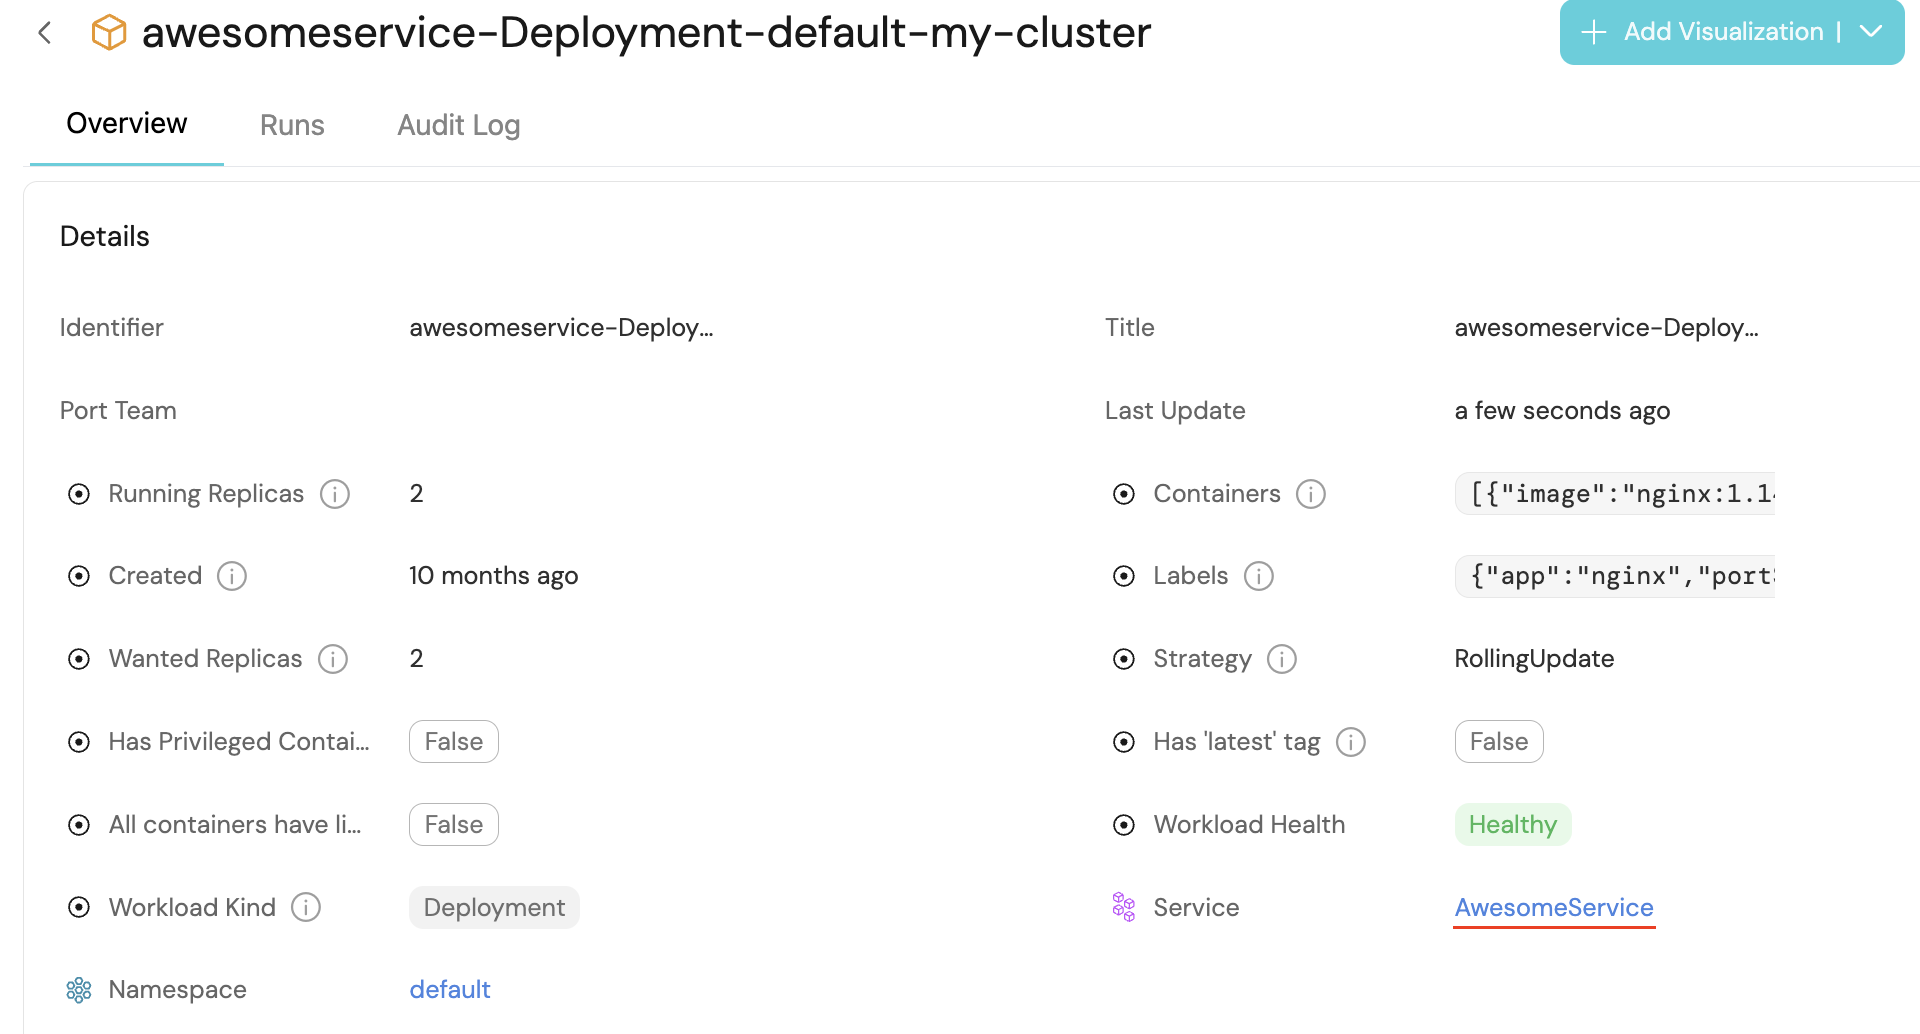
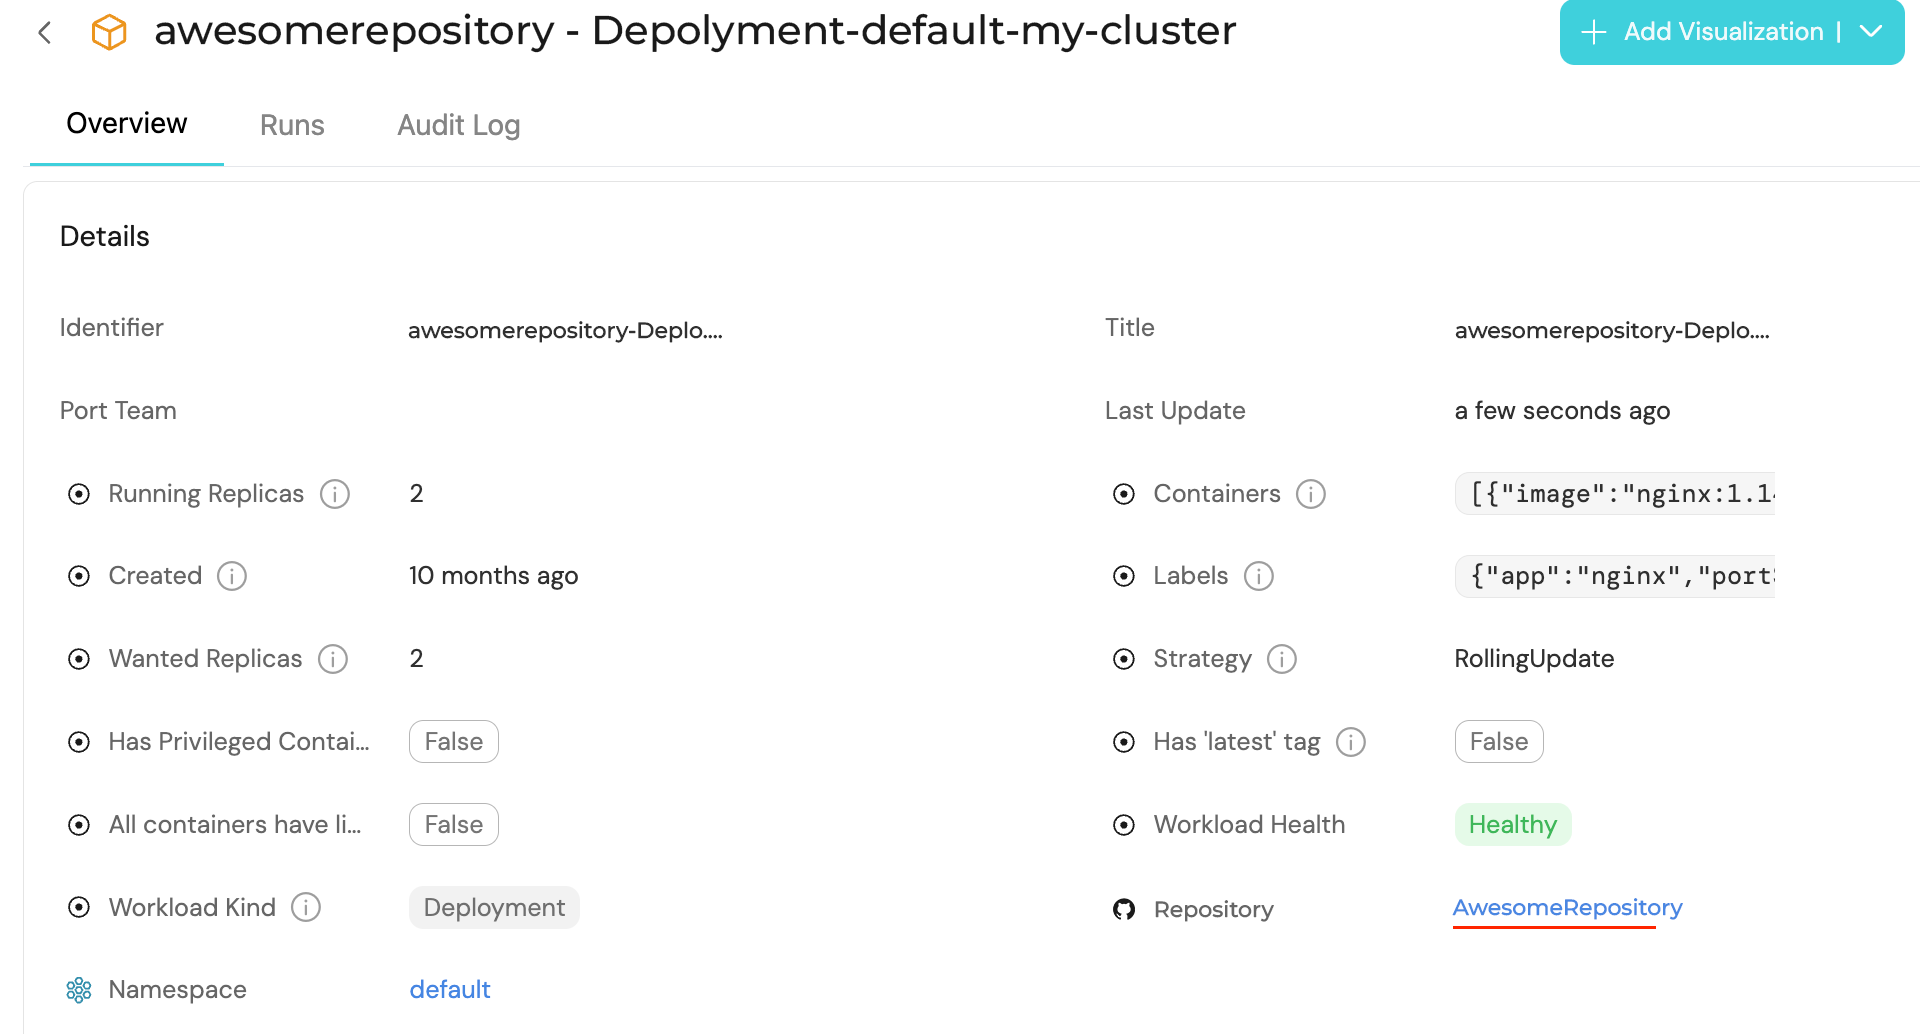
- changed service to repo to reflect to the new onboarding structure

diff --git a/docs/guides/all/visualize-service-k8s-runtime.md b/docs/guides/all/visualize-service-k8s-runtime.md
@@ -15,7 +15,7 @@ This guide takes 10 minutes to complete, and aims to demonstrate the value of Po
 
 :::info Prerequisites
 
-- This guide assumes you have a Port account and that you have finished the [onboarding process](/quickstart). We will use the `Service` blueprint that was created during the onboarding process.
+- This guide assumes you have a Port account and that you have installed any of Port's [Git Integrations](/build-your-software-catalog/sync-data-to-catalog/git/). We will use the `Repository` blueprint that was created during the installation process
 - You will need an accessible k8s cluster. If you don't have one, here is how to quickly set-up a [minikube cluster](https://minikube.sigs.k8s.io/docs/start/).
 - [Helm](https://helm.sh/docs/intro/install/) - required to install Port's Kubernetes exporter.
 
@@ -92,11 +92,11 @@ After installation, the exporter will:
 
 <br/>
 
-### Define the connection between services and workloads
+### Define the connection between repositories and workloads
 
 Now that we have our <PortTooltip id="blueprint">blueprints</PortTooltip> set up, we want to model the logical connection between them by relating the `Workload` blueprint to the `Service` blueprint. This will grant us some helpful context in our Software catalog, allowing us to see relevant `Workloads` in a `Service`'s context, or a `Service`'s property directly in its corresponding `Workload`.
 
-In this guide we will create one relation named `service` which will represent the service that a workload is running.
+In this guide we will create one relation named `repository` which will represent the service that a workload is running.
 
 1. Go to your [Builder](https://app.getport.io/settings/data-model), expand the `Workload` blueprint, and click on `New relation`.
 
@@ -106,21 +106,21 @@ In this guide we will create one relation named `service` which will represent t
 
 <br/><br/>
 
-### Map your workloads to their services
+### Map your workloads to their repositories
 
-You may have noticed that the `service` relations are empty for all of our `workloads`. This is because we haven't specified which `workload` belongs to which `service`. This can be done manually, or via mapping by using a convention of your choice.
+You may have noticed that the `repository` relations are empty for all of our `workloads`. This is because we haven't specified which `workload` belongs to which `repository`. This can be done manually, or via mapping by using a convention of your choice.
 
 In this guide we will use the following convention:  
-A `workload` with a label in the form of `portService: <service-identifier>` will automatically be assigned to a `service` with that identifier.
+A `workload` with a label in the form of `portRepository: <repository-identifier>` will automatically be assigned to a `repository` with that identifier.
 
-For example, a k8s deployment with the label `portService: myService` will be assigned to a `service` with the identifier `myService`.
+For example, a k8s deployment with the label `portRepository: myRepository` will be assigned to a `repository` with the identifier `myRepository`.
 
 We achieved this by adding a [mapping definition](https://github.com/port-labs/template-assets/blob/main/kubernetes/full-configs/k8s-guide/k8s_guide_config.yaml#L111-L119) in the configuration YAML we used when installing the exporter. The definition uses `jq` to perform calculations between properties.
 
 **Let's see this in action:**
 
-1. Create a `Deployment` resource in your cluster with a label matching the identifier of a `service` in your [Software catalog](https://app.getport.io/services).  
-   You can use the simple example below and change the `metadata.labels.portService` value to match your desired `service`. Copy it into a file named `deployment.yaml`, then apply it:
+1. Create a `Deployment` resource in your cluster with a label matching the identifier of a `repository` in your [Software catalog](https://app.getport.io/services).  
+   You can use the simple example below and change the `metadata.labels.portRepository` value to match your desired `repository`. Copy it into a file named `deployment.yaml`, then apply it:
 
 ```bash
 kubectl apply -f deployment.yaml
@@ -133,10 +133,10 @@ kubectl apply -f deployment.yaml
 apiVersion: apps/v1
 kind: Deployment
 metadata:
-  name: awesomeservice
+  name: awesomerepository
   labels:
     app: nginx
-    portService: AwesomeService
+    portRepository: AwesomeRepository
 spec:
   replicas: 2
   selector:
@@ -177,13 +177,13 @@ resources:
             "my-cluster"
           properties: {}
           relations:
-            service: .metadata.labels.portService
+            repository: .metadata.labels.portRepository
           title: .metadata.name
 ```
 
 <br/>
 
-3. Go to your [Software catalog](https://app.getport.io/services), and click on `Workloads`. Click on the `Workload` for which you created the deployment, and you should see the `service` relation filled.
+3. Go to your [Software catalog](https://app.getport.io/repositories), and click on `Workloads`. Click on the `Workload` for which you created the deployment, and you should see the `repository` relation filled.
 
 <img src='/img/guides/k8sEntityAfterIngestion.png' width='80%' />
 
